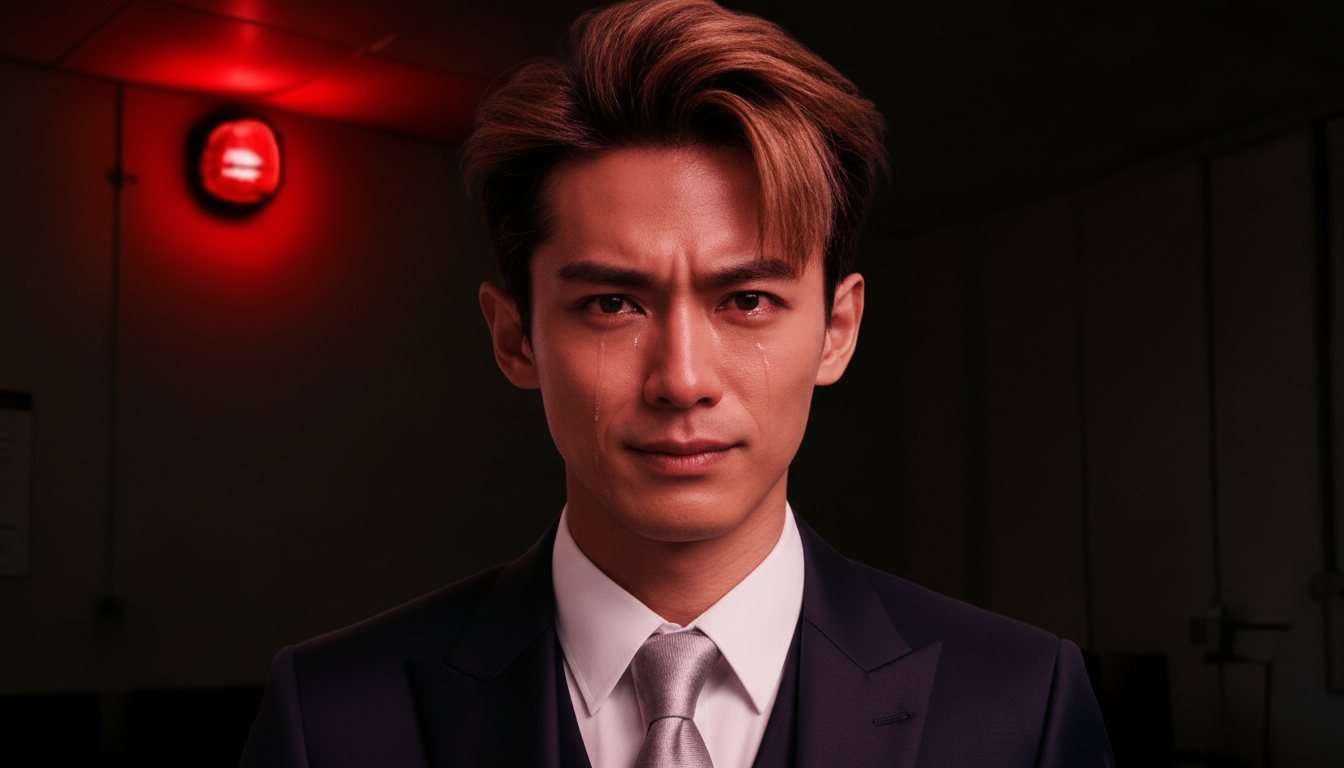
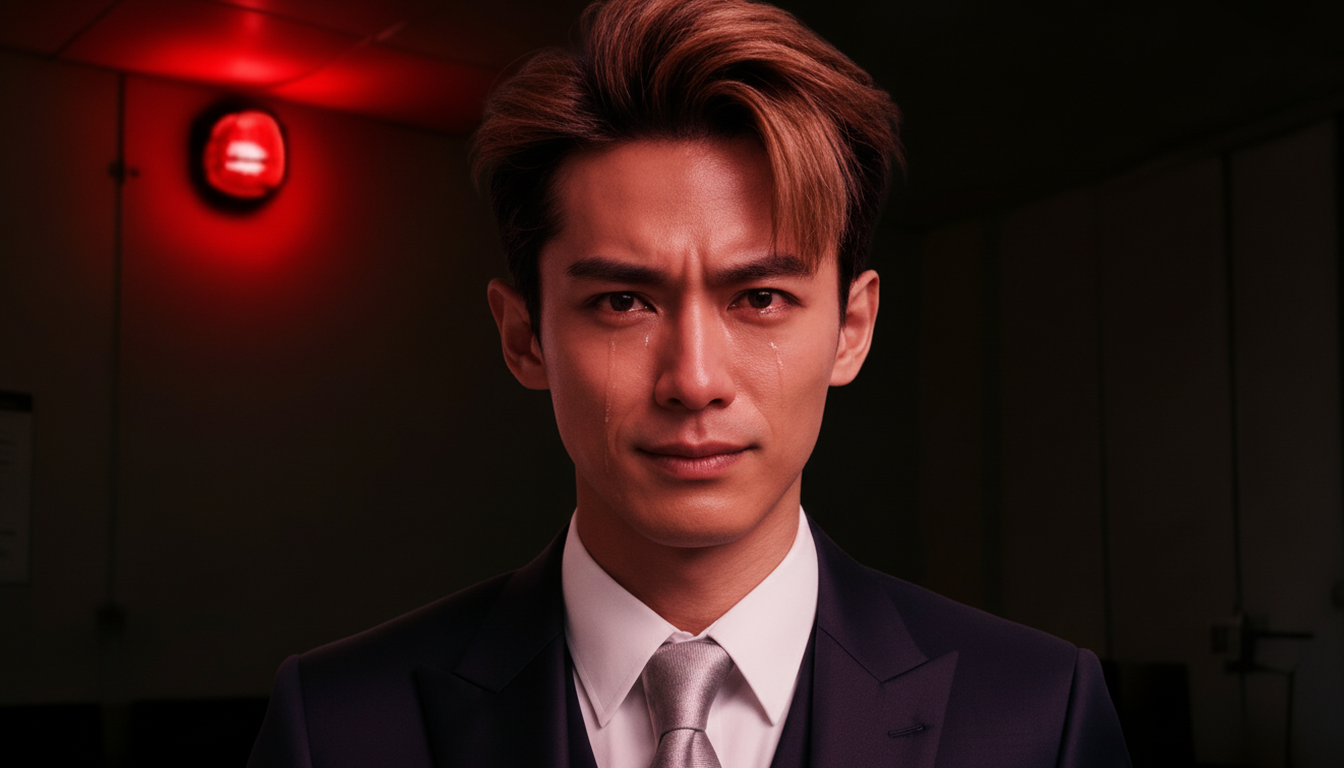
A단계 재생성 검수: S12b·S25a 채택(S25a 띠 크롭), S24c 낮 조명 재발 → 암전 장면 조명 참조 교체
Claude-Session: https://claude.ai/code/session_01XcJ1uTZN6wnZBeZvUX2UKK

diff --git a/scripts/build_ashita_keyframes.py b/scripts/build_ashita_keyframes.py
@@ -69,6 +69,10 @@ LIGHT_NOTE = {  # 장면 조명 고정 — 로케이션 참조의 낮 조명을 
                  "lights off; lit only by a red emergency lamp and a strong white backlight from the open doorway behind; deep shadows."),
     "red": ("LIGHTING OVERRIDES THE LOCATION REFERENCE: blackout, NO daylight, ceiling lights off; only red emergency light, deep shadows."),
 }
+# A단계 재생성(2026-10-11) 교훈: ⑧ 조명 고정 문장만으로는 낮 로케이션 참조·낮 배경의 얼굴 참조를 못 이김(S24c 2장 모두 낮)
+# → 암전 장면은 낮 로케이션 참조를 빼고, 같은 장면의 승인 컷(시범 S24d)을 조명·공간 참조로 쓴다. 얼굴은 시트 셀로만.
+LIGHT_REF = {"red_door": "assets/portraits/ashita-kf-pilot/S24d-fixed.png"}
+DAY_LOCS = ("loc-control-day", "loc-control-angles-day", "loc-control-key", "loc-control-angles-key")
 EXTRA_REFS = {}
 
 
@@ -78,6 +82,9 @@ def who_of(name):
 
 def describe(path, i):
     name = os.path.basename(path)
+    if path in LIGHT_REF.values():
+        return (f"Reference image {i} is the LIGHTING and LOCATION reference for this scene: match its blackout darkness, red emergency "
+                "lamp and white doorway backlight exactly; ignore the person in it.")
     if "/ashita-kf-" in path:
         k = next((k for k, s in FACE_KF.items() if name.startswith(s + "-")), None)
         who = dict(PEOPLE).get(k, "the character")
@@ -105,6 +112,10 @@ def notes(refs):
 
 def build(sc, face_refs):
     refs = list(face_refs) + list(sc["refs"]) + EXTRA_REFS.get(sc["id"], [])
+    lr = LIGHT_REF.get(sc.get("lighting"))
+    if lr and sc["id"] != "S24d":
+        # 낮 로케이션·낮 배경 승인 얼굴(高橋 S24c-1) 참조를 빼고 같은 장면 조명 참조로 교체
+        refs = [r for r in refs if not os.path.basename(r).startswith(DAY_LOCS) and "/ashita-kf-a/" not in r] + [lr]
     parts = ["Create ONE single photorealistic cinematic film still in 16:9 widescreen — one frame only, NOT a grid, no panels, "
              "no borders, no captions."]
     parts += [describe(p, i + 1) for i, p in enumerate(refs)]

diff --git a/productions/ashita-kara-ja/10_수정요청목록.md b/productions/ashita-kara-ja/10_수정요청목록.md
@@ -34,3 +34,4 @@
 | R16 | PHASE 4 A단계 대사 CU 12장 (`ashita-kf-a`, 약 0.48달러) | ✅ 생성·검수(`qa_phase4_stageA.jpg`) — 합격 9장: 인물별 동일 얼굴·안경 일치(佐藤 은테·흉터, 田中·高橋 안경 없음)·레터박스 없음·외계어 없음. 기준 얼굴 확정 FACE_KF = 佐藤 S09d · 佐藤 후반 S26c · 田中 S05d · 高橋 S24c(얼굴만) |
 | R17 | A단계 불합격 3장 재생성 (`ashita-kf-a-r`, 3컷×2후보 약 0.24달러) | ⏳ 승인 대기 — S12b 고함 입(립싱크 불가) → 입 닫힌 분노, S24c 암전인데 낮 조명 → 조명 고정 문장(LIGHT_NOTE), S25a 미디엄·콘솔·벽 종이 → 머리·어깨만. 승인 얼굴 참조 추가 |
 | R18 | PHASE 4 B단계 나머지 120컷 (`ashita-kf-b`, 약 4.80달러) | ⏳ 승인 대기 — 시범 승인분 S14a·S24d 제외, 얼굴 보이는 24컷에 기준 얼굴 참조 |
+| R19 | A단계 재생성 결과 (`ashita-kf-a-r`, 6장 약 0.24달러) | S12b → **후보 2 채택**(입 닫힌 분노·가슴 위·같은 얼굴) ✅ / S25a → **후보 1 채택**(머리·어깨만·실사 눈물·붉은 비상등, 우측 띠 23px 무료 크롭; 후보 2는 화면 오른쪽에 다른 사람 어깨가 들어와 불채택) ✅ / S24c → ❌ 2장 모두 낮 조명 재발. 원인: 낮 로케이션 시트 + 낮 배경 얼굴 참조가 조명 문장을 이김 → 생성기 수정(암전 장면은 낮 참조를 빼고 시범 승인 컷 S24d를 조명·공간 참조로). B단계 결과의 S24 암전 컷(S24e·S24f) 검수 후 함께 재생성 예정 |
